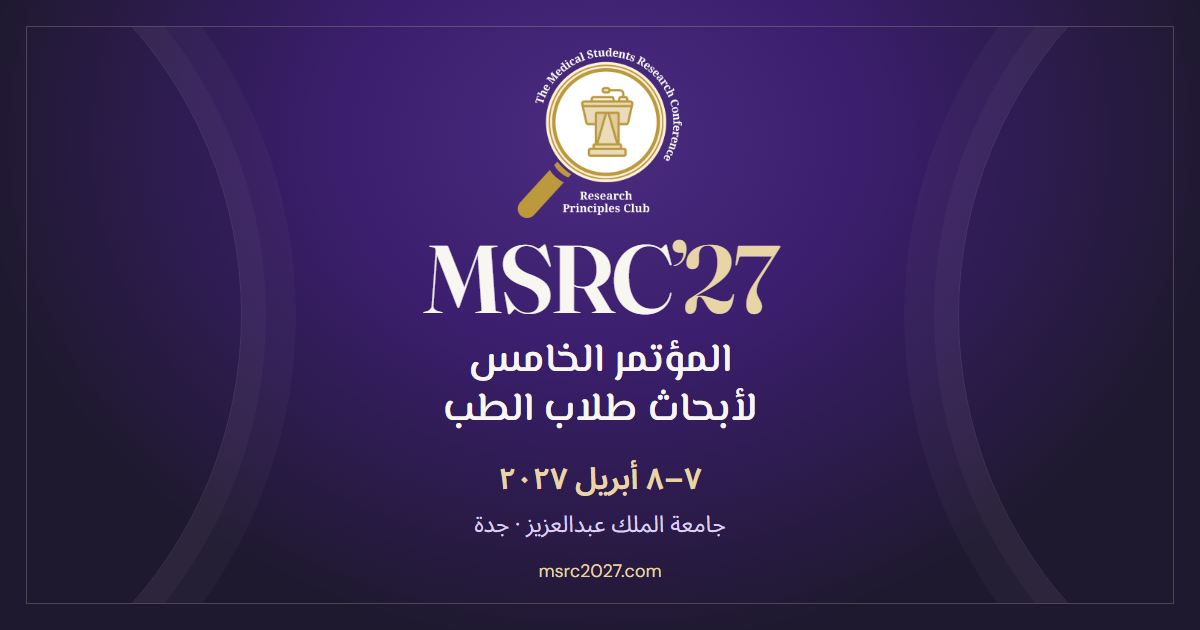
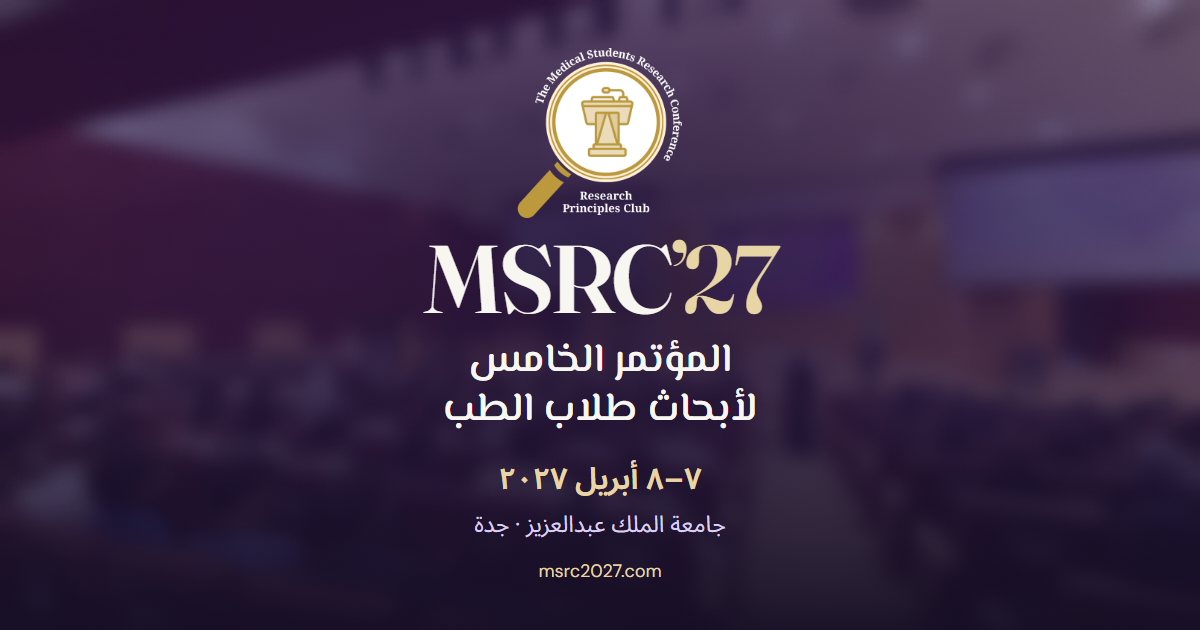
Use supplied auditorium photo in share cards

diff --git a/src/content/share-card.ts b/src/content/share-card.ts
@@ -1,7 +1,7 @@
 import type { Locale } from "@/lib/i18n";
 
 export const shareCardSize = { width: 1200, height: 630 } as const;
-export const shareCardRevision = "conference-brand";
+export const shareCardRevision = "conference-auditorium";
 export const shareCardDomain = "msrc2027.com";
 
 export const shareCardCopy = {

diff --git a/docs/PROGRESS.md b/docs/PROGRESS.md
@@ -1,5 +1,17 @@
 # Progress and session handover
 
+## 27 November 2026 — Public link-preview photo follow-up
+
+- Used the organizer-selected auditorium photograph as the blurred background
+  under a purple gradient on both localized cards. Only the metadata-stripped
+  derivative is included in the generator. The centered identity still fits
+  the 112 × 112 chat crop. Requirements MED-01/02, DSN-02 and ACC-01.
+- Both full cards and square crops were visually reviewed. Scoped ESLint,
+  14 targeted unit tests, the production build and all three Chromium
+  shared-link smoke cases passed on the updated artwork. The final PNGs are
+  548,720 bytes in English and 542,287 bytes in Arabic. Production and
+  the native WhatsApp client were not tested for this revision.
+
 ## 27 November 2026 — Public link-preview artwork
 
 - The English and Arabic Open Graph cards now use the public seal, Fraunces

diff --git a/docs/MEDIA_REGISTER.md b/docs/MEDIA_REGISTER.md
@@ -386,6 +386,12 @@ with the public Fraunces wordmark. Conference artwork uses the site palette
 and keeps the identity inside the central square. The Open Graph image
 routes serve the PNGs in `public/brand/share/`.
 
+The organizer selected the supplied auditorium photograph `IMG_9755.HEIC`
+for this backdrop. The generator uses a cropped, blurred, metadata-stripped
+WebP from `scripts/assets/share-card-auditorium.webp` under a purple
+gradient. The HEIF original stays outside source control and public delivery.
+Requirements MED-01/02, DSN-02 and ACC-01.
+
 After changing the artwork or confirmed conference dates, run
 `node scripts/render-social-share-card.mjs` in the installed checkout with
 Playwright Chromium available. Review both cards at full width and in
